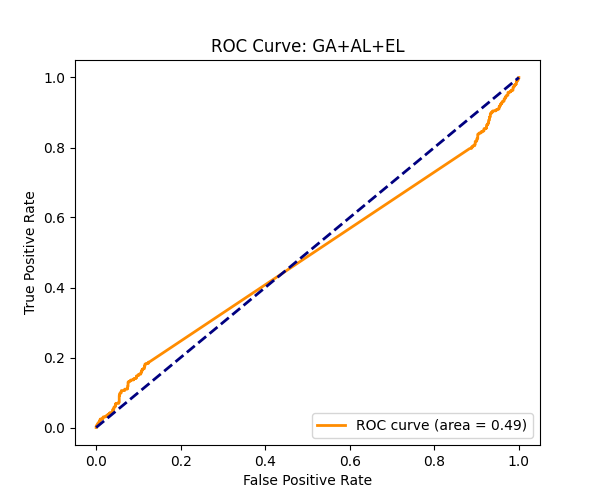
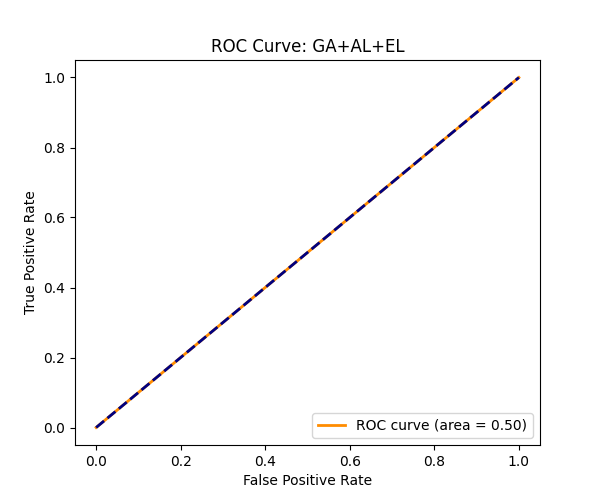
PowerTransformer & PCA update

diff --git a/src/preprocessing.py b/src/preprocessing.py
@@ -1,4 +1,4 @@
-from sklearn.preprocessing import RobustScaler, LabelEncoder
+from sklearn.preprocessing import PowerTransformer, LabelEncoder
 from sklearn.model_selection import train_test_split
 from sklearn.decomposition import PCA
 import pandas as pd
@@ -84,14 +84,15 @@ def encode_labels(df):
 
 def scale_features(X_train, X_test):
     """
-    Scale features using RobustScaler to handle outliers.
+    Scale features using PowerTransformer (Yeo-Johnson) to handle outliers
+    and normalize distributions for better PCA results.
     """
-    scaler = RobustScaler()
+    scaler = PowerTransformer(method='yeo-johnson')
     X_train_scaled = scaler.fit_transform(X_train)
     X_test_scaled = scaler.transform(X_test)
     return X_train_scaled, X_test_scaled, scaler
 
-def apply_pca(X_train, X_test, n_components=0.90):
+def apply_pca(X_train, X_test, n_components=0.95):
     """
     Apply PCA to reduce dimensionality while preserving a certain percentage of variance.
     """

diff --git a/main_preprocessing.py b/main_preprocessing.py
@@ -41,12 +41,12 @@ def main():
     X_train, X_test, y_train, y_test, w_train, w_test, m_train, m_test = split_data(df)
     print(f"Train shape: {X_train.shape}, Test shape: {X_test.shape}")
     
-    print("Scaling features using RobustScaler...")
+    print("Scaling features using PowerTransformer (Yeo-Johnson)...")
     X_train_scaled, X_test_scaled, scaler = scale_features(X_train, X_test)
     joblib.dump(scaler, os.path.join(output_dir, 'scaler.joblib'))
     
-    print("Applying PCA (preserving 90% variance)...")
-    X_train_pca, X_test_pca, pca = apply_pca(X_train_scaled, X_test_scaled, n_components=0.90)
+    print("Applying PCA (preserving 95% variance)...")
+    X_train_pca, X_test_pca, pca = apply_pca(X_train_scaled, X_test_scaled, n_components=0.95)
     joblib.dump(pca, os.path.join(output_dir, 'pca.joblib'))
     print(f"PCA reduced dimensions from {X_train_scaled.shape[1]} to {X_train_pca.shape[1]}")
     

diff --git a/docs/preprocessing.md b/docs/preprocessing.md
@@ -13,7 +13,7 @@ The preprocessing pipeline is orchestrated by [`main_preprocessing.py`](../main_
 3. **Missing Value Handling (SimpleImputer)**
 4. **Label Encoding**
 5. **Stratified Data Splitting**
-6. **Feature Scaling (RobustScaler)**
+6. **Feature Scaling (PowerTransformer)**
 7. **Dimensionality Reduction (PCA)**
 
 ---
@@ -49,8 +49,8 @@ Significant outliers were detected in several features, often related to the imp
 | ... | ... | ... |
 
 **Decision:**
-1.  **RobustScaler:** Standard scaling (Mean/Std) is sensitive to these outliers. We switched to **`RobustScaler`** (Median/IQR) to effectively handle the heavy tails and outliers.
-2.  **PCA Variance:** To reduce the impact of noise and outliers further, the PCA variance retention was adjusted to **90%** (from 95%).
+1.  **PowerTransformer (Yeo-Johnson):** Initially, standard scaling and robust scaling led to unbalanced variance in PCA due to extreme heavy tails. We switched to **`PowerTransformer`**, which applies a non-linear transformation to stabilize variance and make features more Gaussian. This prevents extreme outliers from dominating the PCA components.
+2.  **PCA Variance:** To ensure the maximum amount of information is preserved for the models, the PCA variance retention was set to **95%**.
 
 ---
 
@@ -80,13 +80,13 @@ The dataset is split into training and testing sets using an **70/30 ratio**.
 
 ## 5. Normalization and Dimensionality Reduction
 
-### Feature Scaling (RobustScaler)
-We apply `RobustScaler` to transform features. Unlike `StandardScaler`, `RobustScaler` uses the median and the interquartile range (IQR), making it robust to the significant outliers identified during EDA.
+### Feature Scaling (PowerTransformer)
+We apply `PowerTransformer` (using the Yeo-Johnson method) to transform features. This method stabilizes variance and minimizes the impact of heavy tails (outliers) by mapping the data to a more Gaussian distribution. This is essential for PCA, ensuring that components are not dominated by a few extreme values.
 
 ### Dimensionality Reduction (PCA)
 To improve computational efficiency and reduce noise:
-- **Variance Retained:** **90%**.
-- **Benefit:** Reduces dimensionality while keeping the most significant signal, filtering out variance that might be attributed to noise or outliers.
+- **Variance Retained:** **95%**.
+- **Benefit:** Reduces the feature space while preserving almost all original information, filtering out only the most insignificant noise components.
 
 ---
 
@@ -98,7 +98,7 @@ After running the pipeline, the following artifacts are generated in the `proces
 | --- | --- |
 | `train_data.npz` | Compressed NumPy archive containing `X_train`, `y_train`, and `w_train`. |
 | `test_data.npz` | Compressed NumPy archive containing `X_test`, `y_test`, and `w_test`. |
-| `scaler.joblib` | The fitted `RobustScaler` object. |
+| `scaler.joblib` | The fitted `PowerTransformer` object. |
 | `pca.joblib` | The fitted `PCA` object. |
 | `label_encoder.joblib` | The fitted `LabelEncoder` object. |
 

diff --git a/experiment/report.md b/experiment/report.md
@@ -4,7 +4,7 @@
 
 | Method | Accuracy | Precision | Recall | F1-Score | Time (s) |
 |--------|----------|-----------|--------|----------|----------|
-| GA | 0.6913 | 0.5694 | 0.2495 | 0.3470 | 6.32 |
-| Random | 0.6880 | 0.5198 | 0.6653 | 0.5836 | 0.89 |
-| GA+AL | 0.7027 | 0.6093 | 0.2657 | 0.3701 | 0.90 |
-| GA+AL+EL | 0.6487 | 0.4220 | 0.1866 | 0.2588 | 1.04 |
+| GA | 0.6867 | 0.5175 | 0.6917 | 0.5920 | 6.45 |
+| Random | 0.6667 | 0.4910 | 0.3854 | 0.4318 | 0.81 |
+| GA+AL | 0.6713 | 0.0000 | 0.0000 | 0.0000 | 0.88 |
+| GA+AL+EL | 0.6713 | 0.0000 | 0.0000 | 0.0000 | 1.02 |
